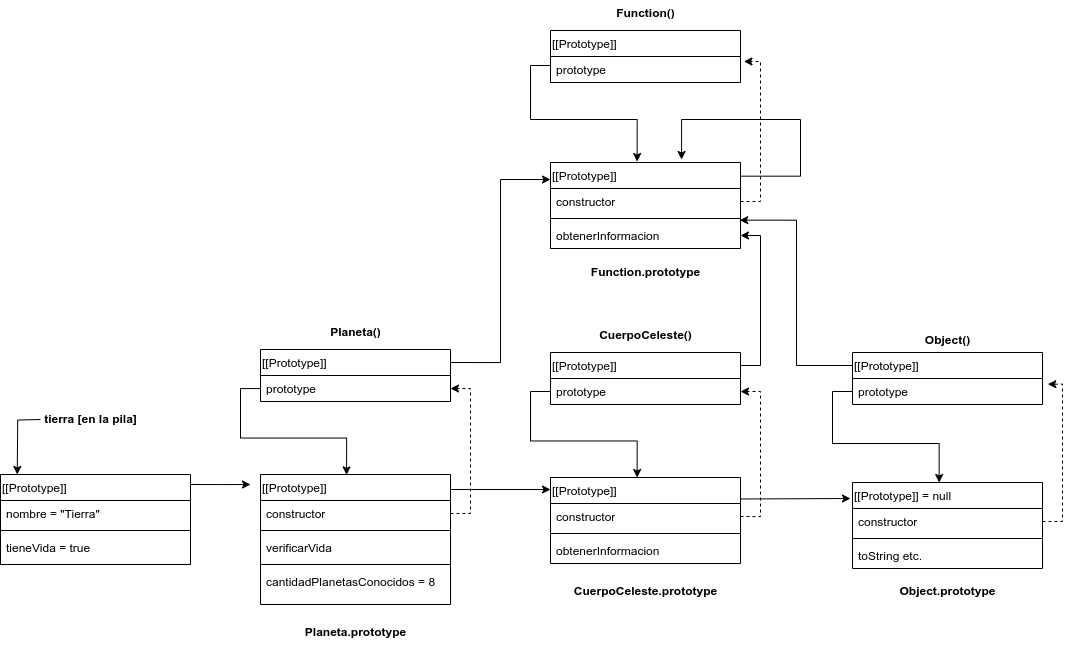
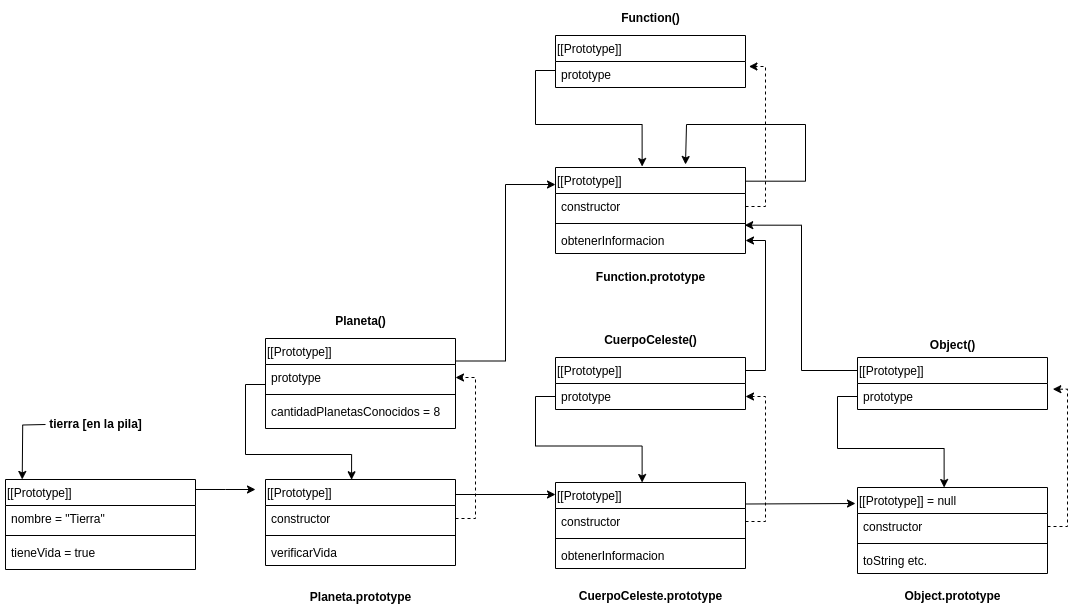
Corrección en variables estática

diff --git a/docs/pages/cliente.rst b/docs/pages/cliente.rst
@@ -601,11 +601,15 @@ Observa cómo al establecer el ``[[Prototype]]`` de ``Planeta.prototype`` a ``Cu
 .. figure:: _static/img/planetas-prototipos.png
   :target: _static/img/planetas-prototipos.png
   :alt: objetos y prototipos en memoria
-  :figwidth: 80 %
+  :figwidth: 100 %
 
   Representación en memoria de los objetos creados en el código de cuerpos celestes y planetas.
 
+.. Note::
 
+  Observa cómo la variable estática del código anterior se ha implementado como una *own property* del objeto ``Planeta`` a la que podemos acceder mediante ``Planeta.cantidadPlanetasConocidos`` o también mediante ``tierra.constructor.cantidadPlanetasConocidos``. En principio, podríamos pensar que otra forma de implementar variables de clase sería añadiéndolas a ``Planeta.prototype`` mediante un código como ``Planeta.prototype.cantidadPlanetasConocidos = 8``. Sin embargo, aunque esto permitiría acceder en modo lectura a las variable desde los objetos instanciados (haciendo ``tierra.cantidadPlanetasConocidos``), en el momento en que intentáramos modificar el valor (por ejemplo, con ``tierra.cantidadPlanetasConocidos = 9``), estaríamos creando una nueva *own property* en el objeto ``tierra`` que ocultaría la variable de clase. Es por ello, que la forma correcta de implementar variables de clase es añadiéndolas directamente al objeto ``Planeta``.
+  
+  
 .. _label-js-clausuras:
 
 Ámbitos y clausuras
